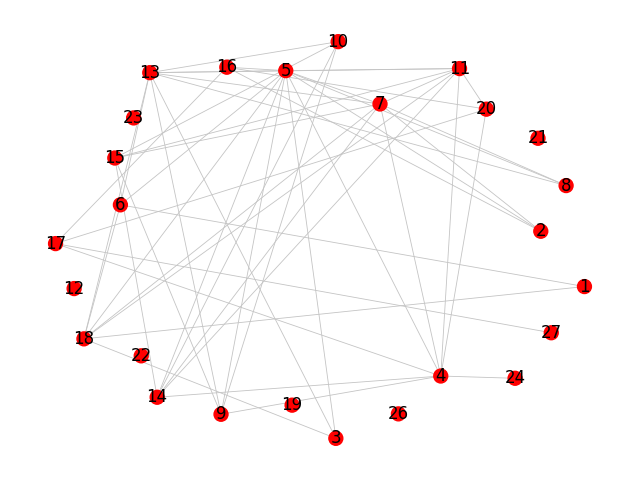
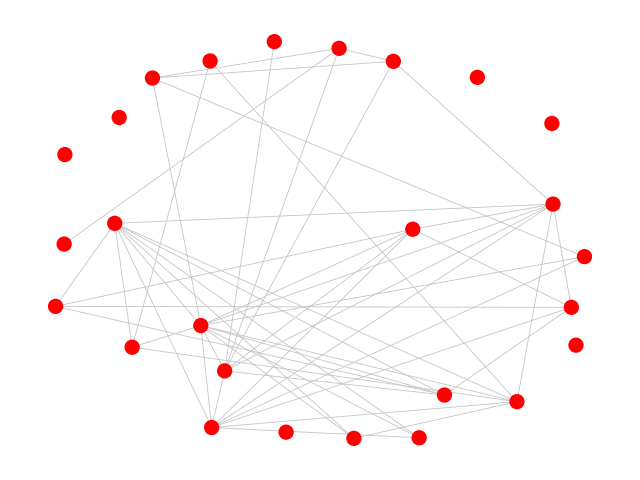
Fixed labels on graphs

diff --git a/services/commands/generate_connections_graphs.py b/services/commands/generate_connections_graphs.py
@@ -67,7 +67,7 @@ def generate_connections_graphs():
             new_graph.remove_edge(edge[0], edge[1])
 
         plt.show()
-        nx.draw(new_graph, with_labels=True, node_color=color_map, width=0.6,
+        nx.draw(new_graph, with_labels=False, node_color=color_map, width=0.6,
                 edge_color=edge_color_map, pos=layout, node_size=100)
         plt.savefig(graphs_path + "{}.png".format(i), format="PNG")
         plt.close()

diff --git a/services/commands/generate_full_graphs.py b/services/commands/generate_full_graphs.py
@@ -51,7 +51,7 @@ def generate_full_graphs():
         G.remove_edge(edge[0], edge[1])
 
     plt.show()
-    nx.draw(G, with_labels=True, node_color=color_map, width=0.6,
+    nx.draw(G, with_labels=False, node_color=color_map, width=0.6,
             edge_color=edge_color_map, pos=layout, node_size=100)
     plt.savefig(graphs_path + "{}.png".format("allGraph"), format="PNG")
     plt.close()
